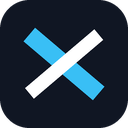
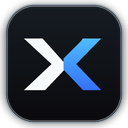
更新扩展说明和应用图标

diff --git a/PRIVACY.md b/PRIVACY.md
@@ -1,6 +1,6 @@
 # 𝕏 Enhancer 隐私说明
 
-𝕏 Enhancer 在用户打开的 x.com 页面中运行，用于保存浏览过的帖子、筛选回复，以及显示推荐算法的多语言资料。
+𝕏 Enhancer 在用户打开的 x.com 页面中运行，用于在本地保存打开过的帖子、筛选回复、隐藏侧栏直播，以及显示推荐算法的多语言资料。
 
 ## 保存的数据
 
